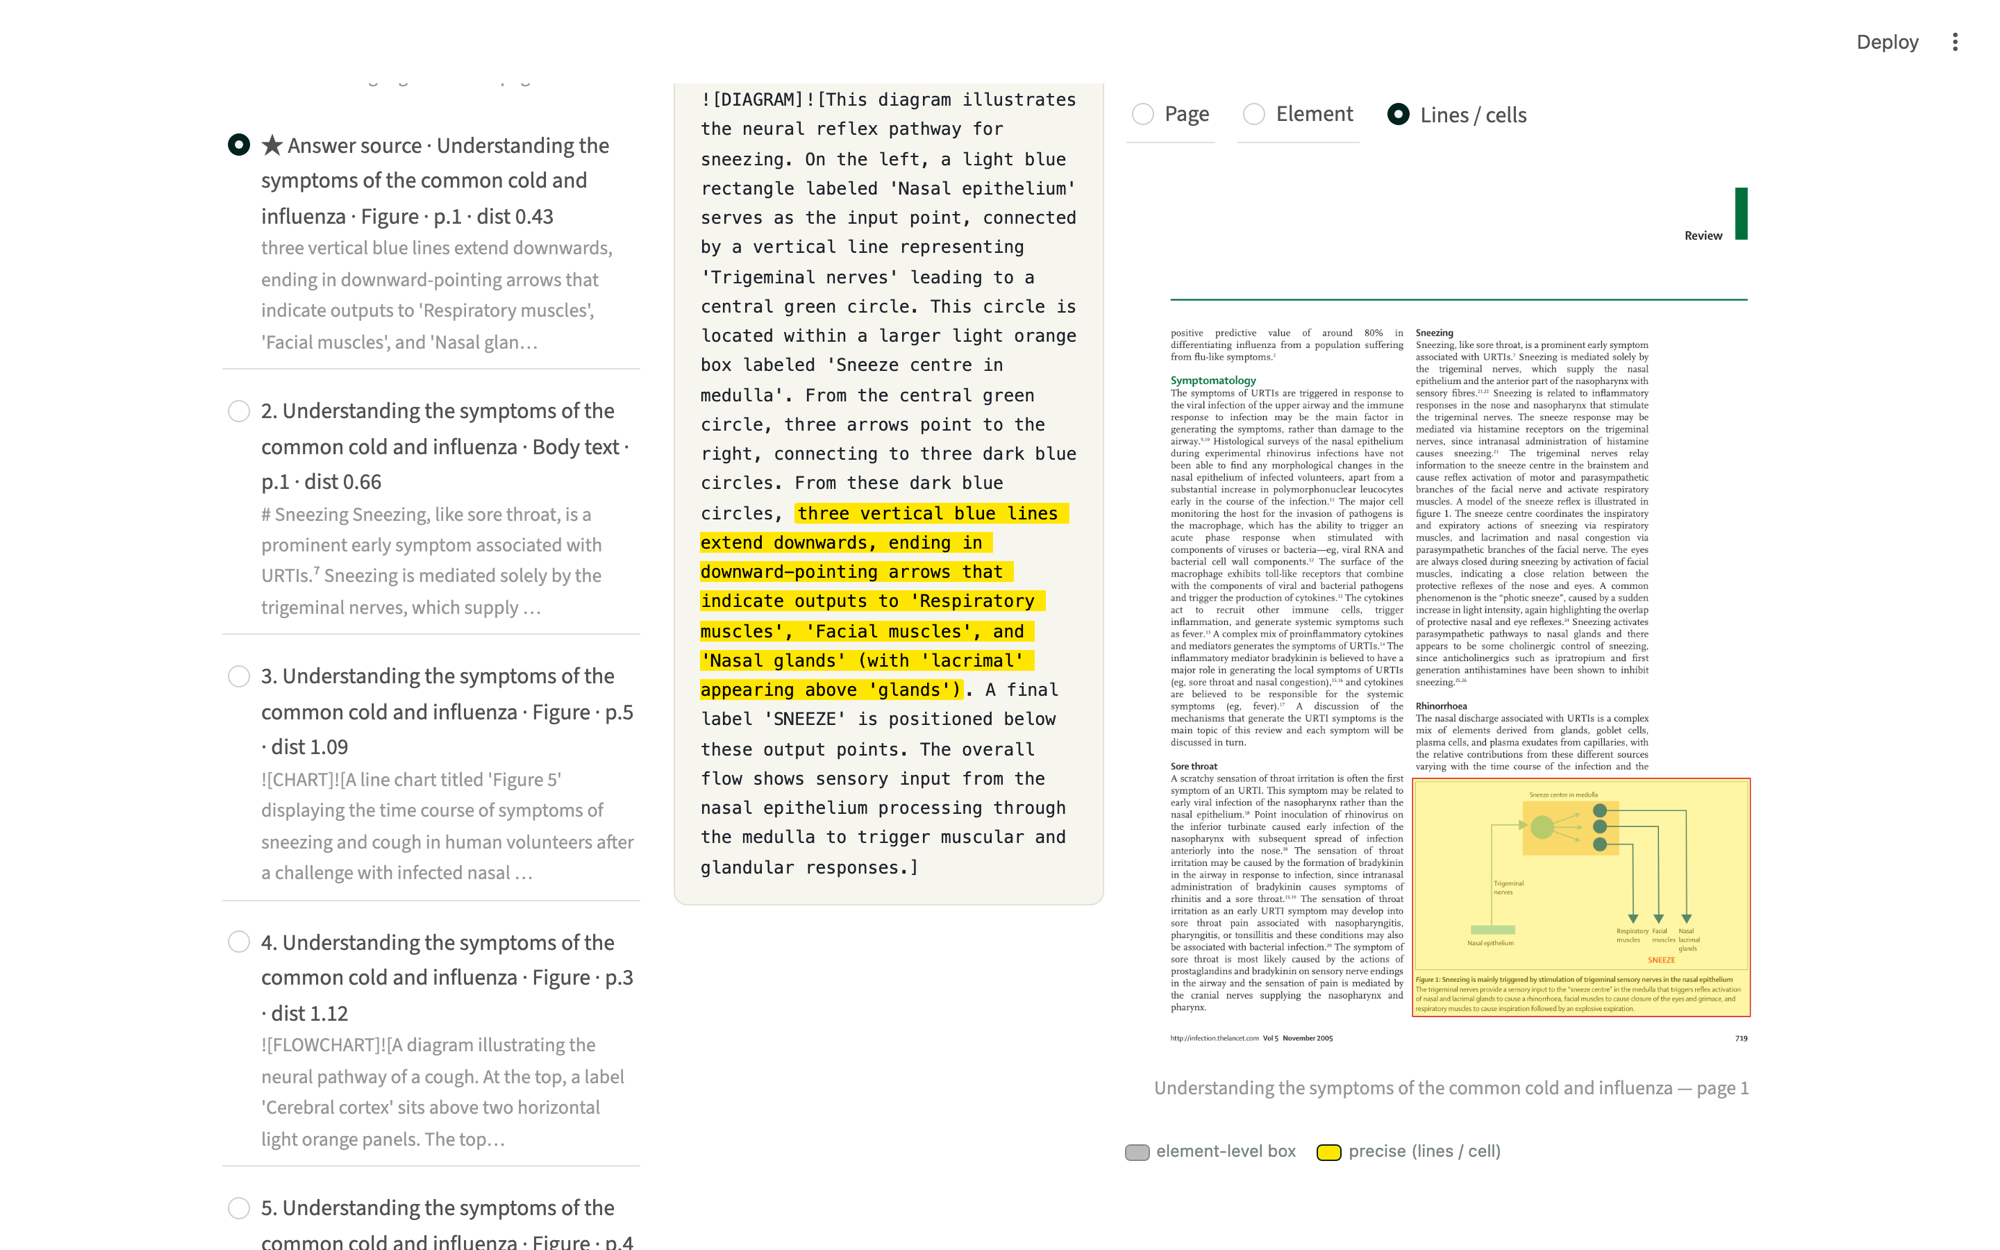
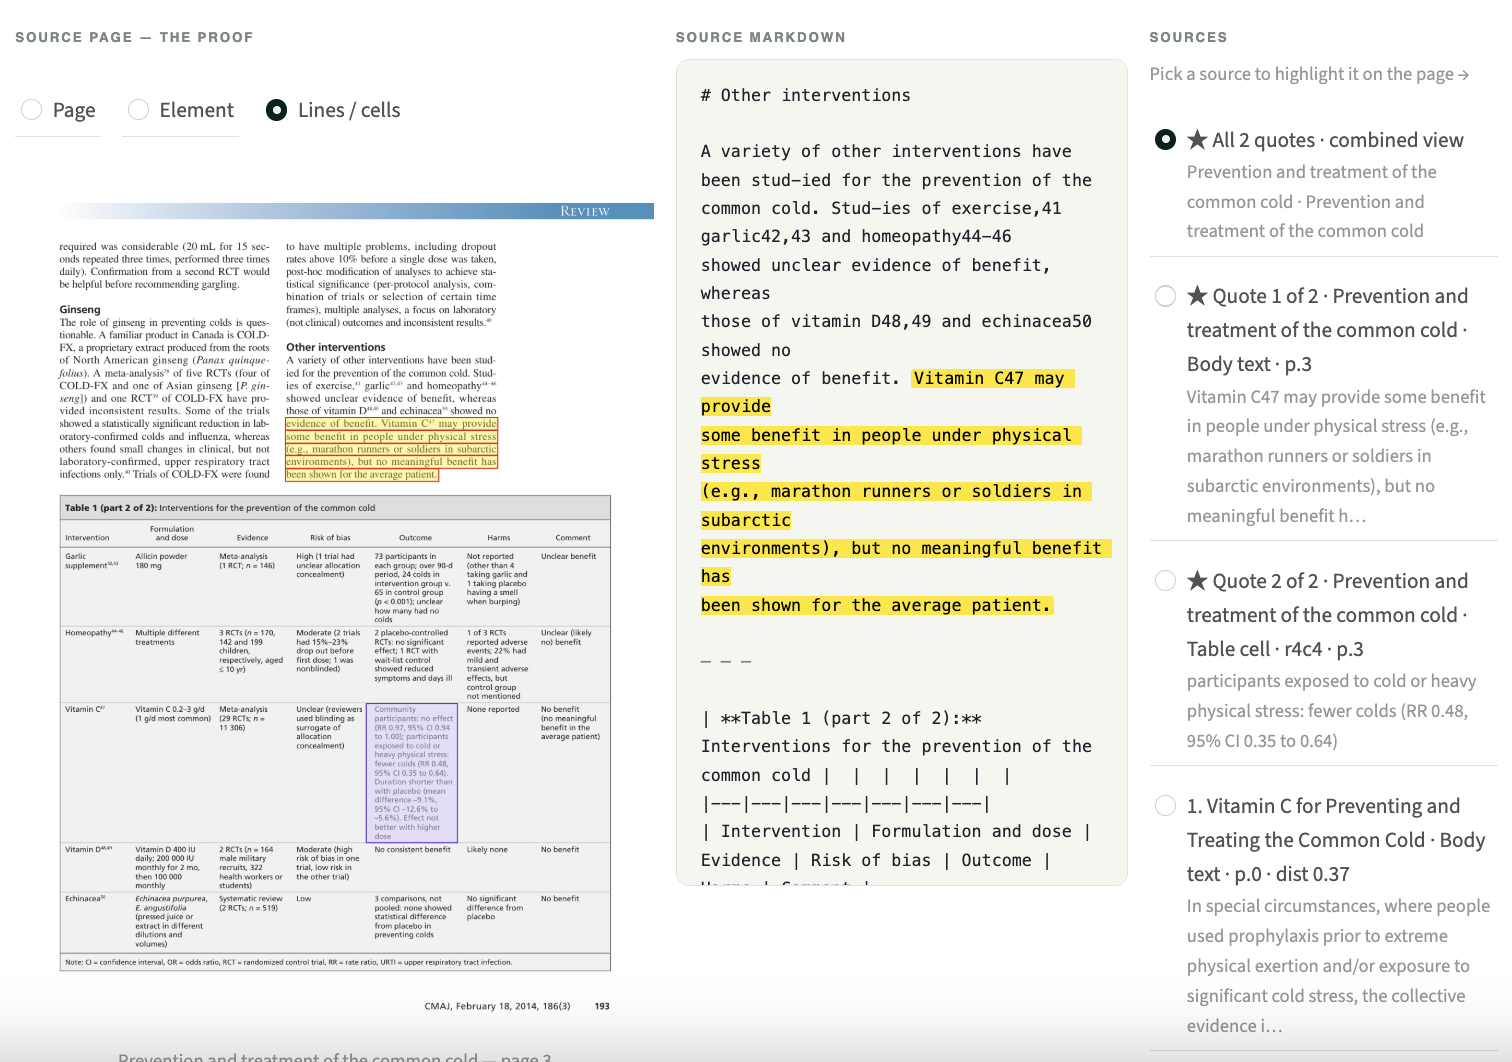
Update the proof-view screenshot in the RAG demo README
Replace demo/proof-view.png with a current screenshot and make the
alt text + caption scenario-agnostic so they fit the new UI.

diff --git a/Applications/RAG Application using DPT-3 Hierarchical Parsing Model/README.md b/Applications/RAG Application using DPT-3 Hierarchical Parsing Model/README.md
@@ -3,9 +3,9 @@
 A Streamlit app that turns 8 medical journal PDFs about the common cold into a verifiable Q&A app. Every answer is grounded back to the **exact line or table cell** on the source page using DPT-3's hierarchical structure tree and line-level grounding map. For how DPT-3 works, see the blog:
 **[DPT-3 Parse for developers](https://landing.ai/blog/dpt3-parse-announcement-for-developers)**.
 
-![The proof view: the passages it pulled (left), the exact quote marked in the parsed text (center), and the matching region highlighted on the real source page (right), with the Page · Element · Lines/cells zoom set to the precise level.](demo/proof-view.png)
+![The proof view: the answer, the exact quote it used, and the matching region highlighted on the original source page.](demo/proof-view.png)
 
-*Every answer resolves back to the exact spot on the source page — here, a flowchart question grounded to the precise lines and the figure on the original page.*
+*The proof view — the answer's exact words highlighted on the original source page, down to the precise line or table cell.*
 
 
 ## Demo
